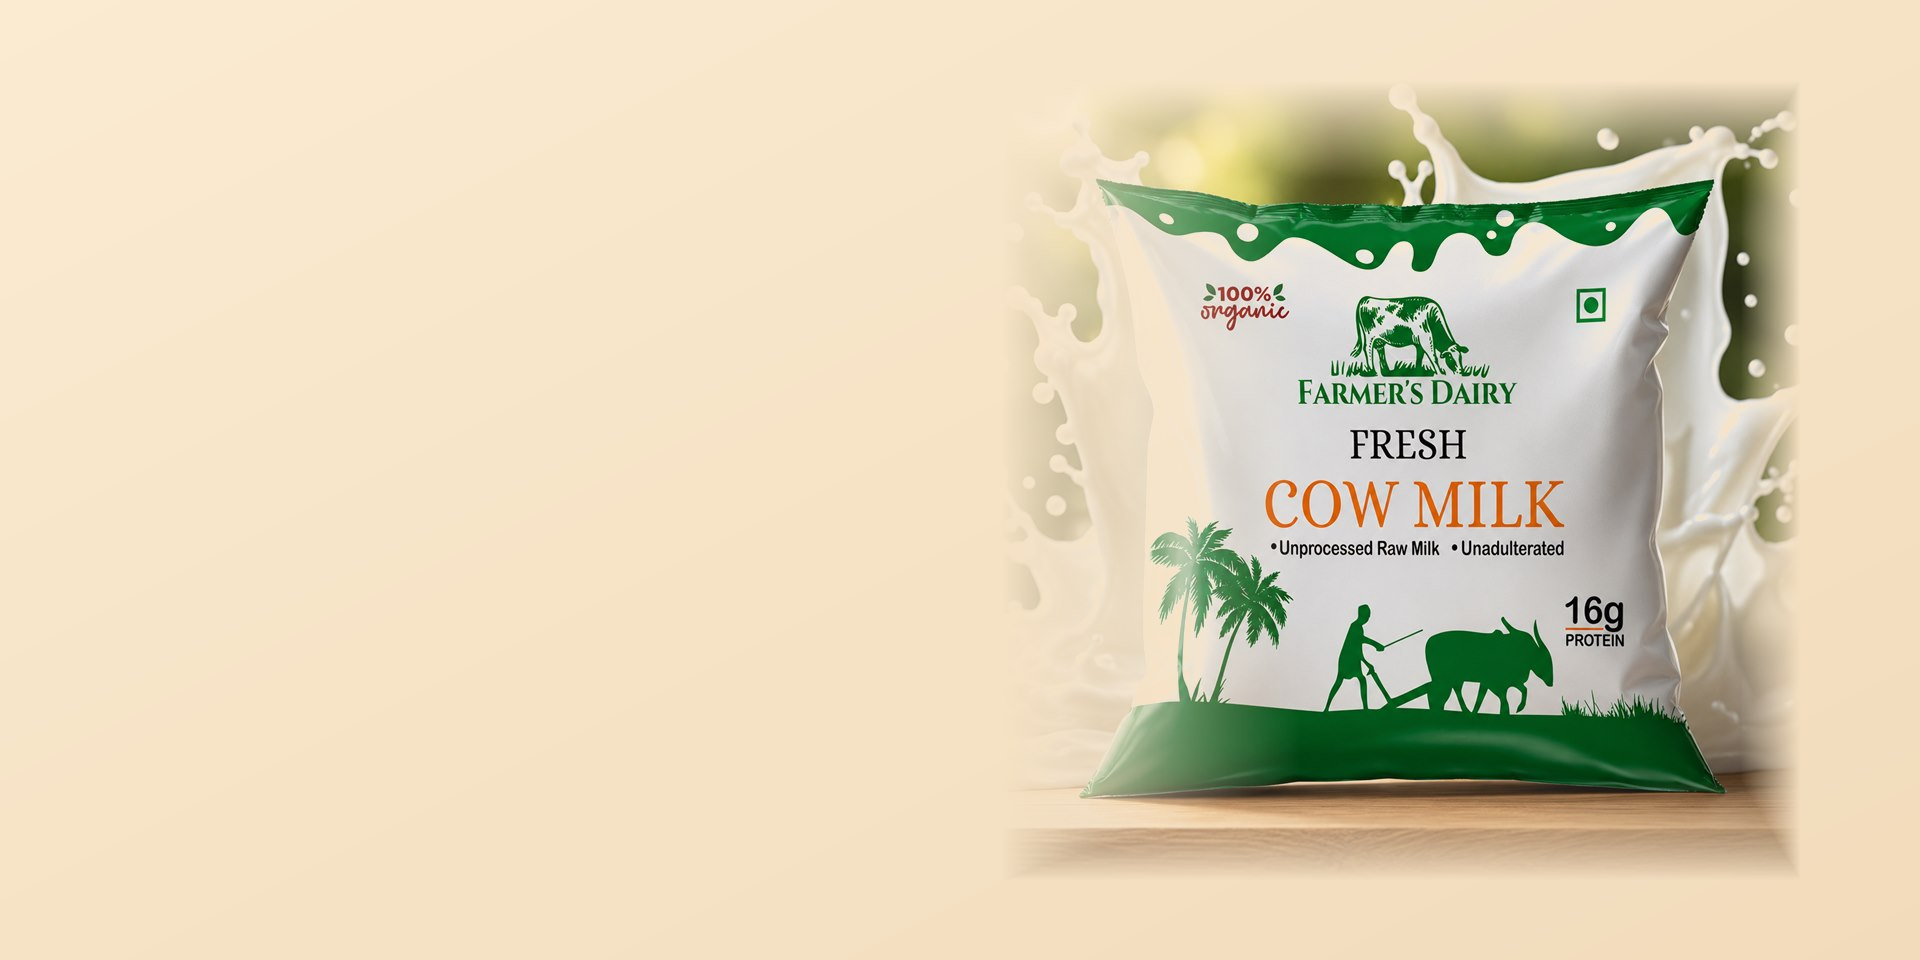
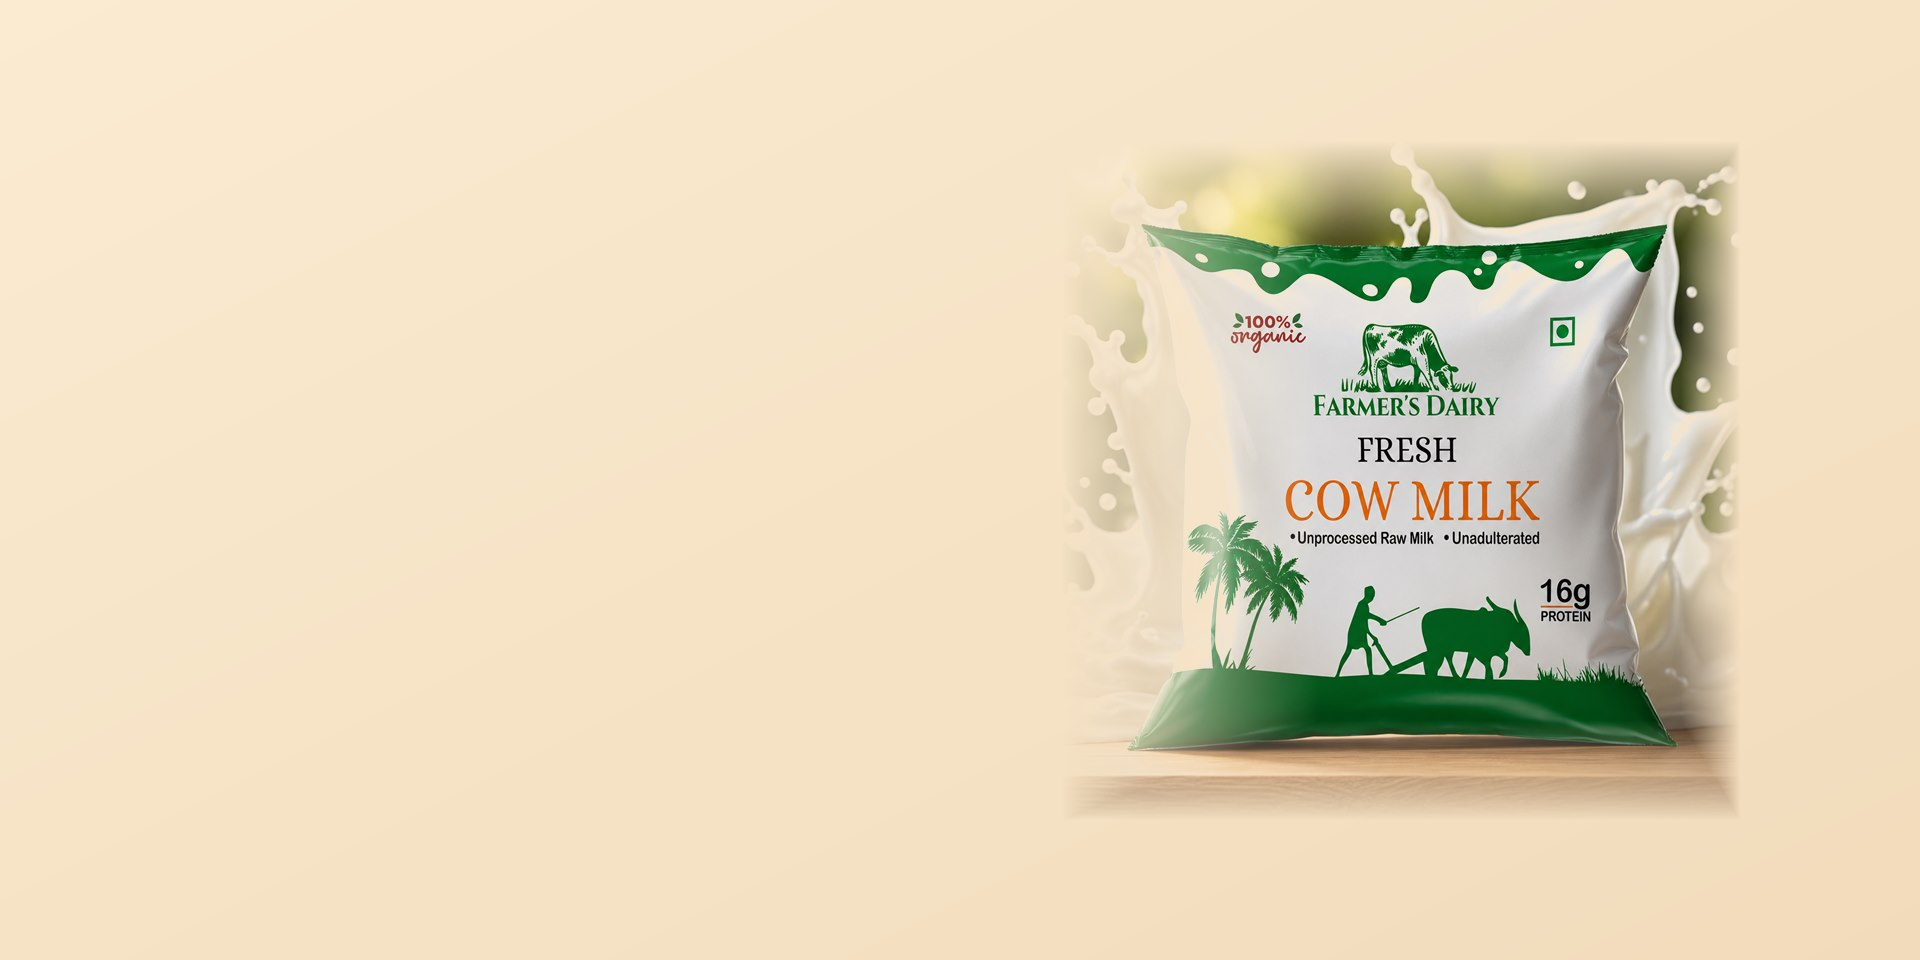
Widen home product grid; scale down milk hero pack
Home product section
- Widen the section container from max-w-7xl (1280px) to
  max-w-[110rem] (1760px) so the 5-col grid uses the full
  horizontal viewport on desktop instead of leaving big blank
  strips on either side. Mobile / tablet unaffected — the wider
  cap only kicks in past 7xl.

Hero — milk composite
- The milk pack was touching the top and bottom margin because
  the source photo has tighter framing than ghee/paneer/butter.
  Regenerated hero-milk.jpg with prodSize 800→680 and y-offset
  80→140 so the pack now sits centred with clear breathing room,
  matching the other three slides.

Changed region(s): [[0.5312, 0.0938, 0.9375, 0.9062]]

diff --git a/app/page.tsx b/app/page.tsx
@@ -122,9 +122,10 @@ export default function HomePage() {
       {/* Hero Slider */}
       <HeroSlider />
 
-      {/* Product Showcase Section */}
+      {/* Product Showcase Section — wider container so 5-col grid uses the
+          full viewport width on desktops and cards grow with screen size. */}
       <section className="py-16 bg-white">
-        <div className="max-w-7xl mx-auto px-4 sm:px-6 lg:px-8">
+        <div className="max-w-[110rem] mx-auto px-4 sm:px-6 lg:px-8">
           <div className="text-center mb-12">
             <h2 className="text-3xl font-bold text-text mb-4 animate-slide-up">
               Our Fresh Products
